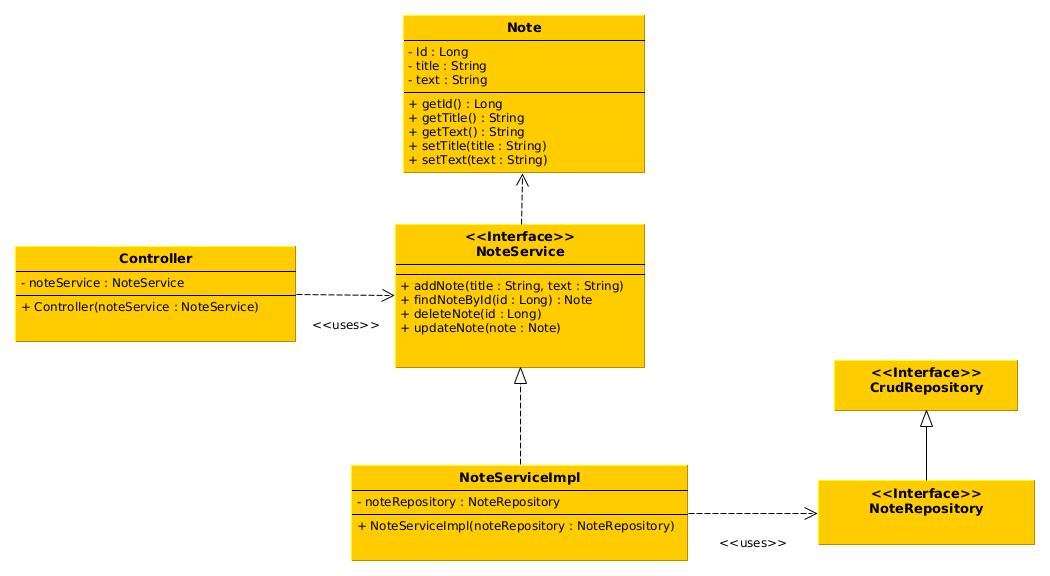
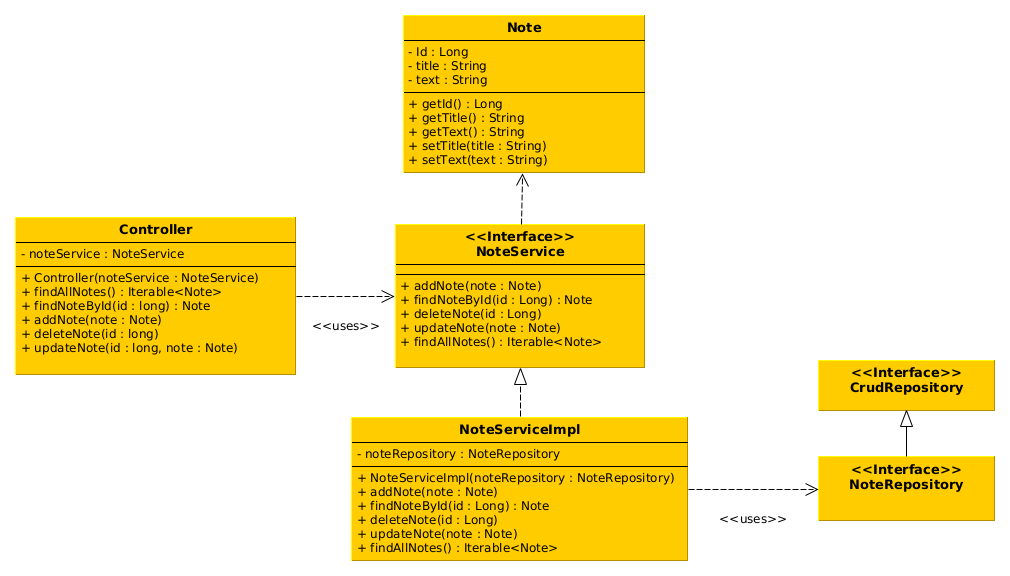
doc: update REAMDE.md and the class diagram image

diff --git a/README.md b/README.md
@@ -1,12 +1,13 @@
-
 # Simple Note Manager
 
 Web application for creating, modifying, deleting and visualizing notes.
 
-Every note consists of the title and some plain text. All the notes are listed on a single web page (client). The user can enter new notes by clicking on a single button opening  
+Every note consists of the title and some plain text. All the notes are listed on a single web page (client). The user
+can enter new notes by clicking on a single button opening  
 a form with two edit fields for the title and the note text.
 
-The front-end is written with HTML, CSS and java script. On the back-end site a REST API is written in Java together with the Spring framework.  
+The front-end is written with HTML, CSS and java script. On the back-end site a REST API is written in Java together
+with the Spring framework.  
 The IDE intelliJ makes it very easy to set this up and maintain.
 
 The architecture on the top level of this application looks like this:
@@ -14,11 +15,14 @@ The architecture on the top level of this application looks like this:
 ![The Business Context](/doc/images/SimpleNoteManager_BusinessContext.png)
 
 The client site sends REST API calls to the server application, which holds the persistent data (notes).
-The web server is responding to the following endpoints:
-- /api/add
-- /api/list
-- /api/delete
+The web server on the backend-site is responding to the following endpoints:
+- POST /api/[id] : insert a new note
+- GET /api/list : get a list with all available notes
+- GET /api/[id] : get the note entry for a given id
+- DELETE /api/[id] : delete the note entry with a given id
+- PUT /api/[id] : update the note entry with a given id
 
 The architecture on the server site is shown in the image below:
 ![The backend architecture](/doc/images/SimpleNoteManager_ServerArchitecture.png)
-Dependency Injection is used to get a loose coupling. Hence the application becomes more reusable, maintainable and testable.
+Dependency Injection is used to get a loose coupling. Hence the application becomes more reusable, maintainable and
+testable.
